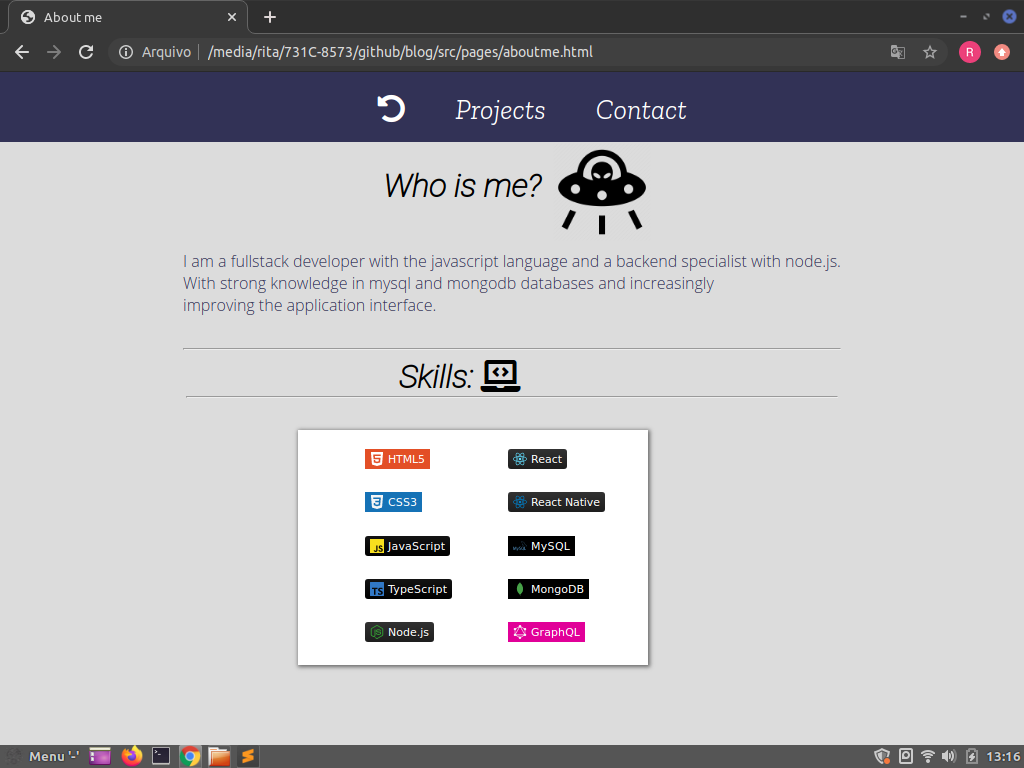
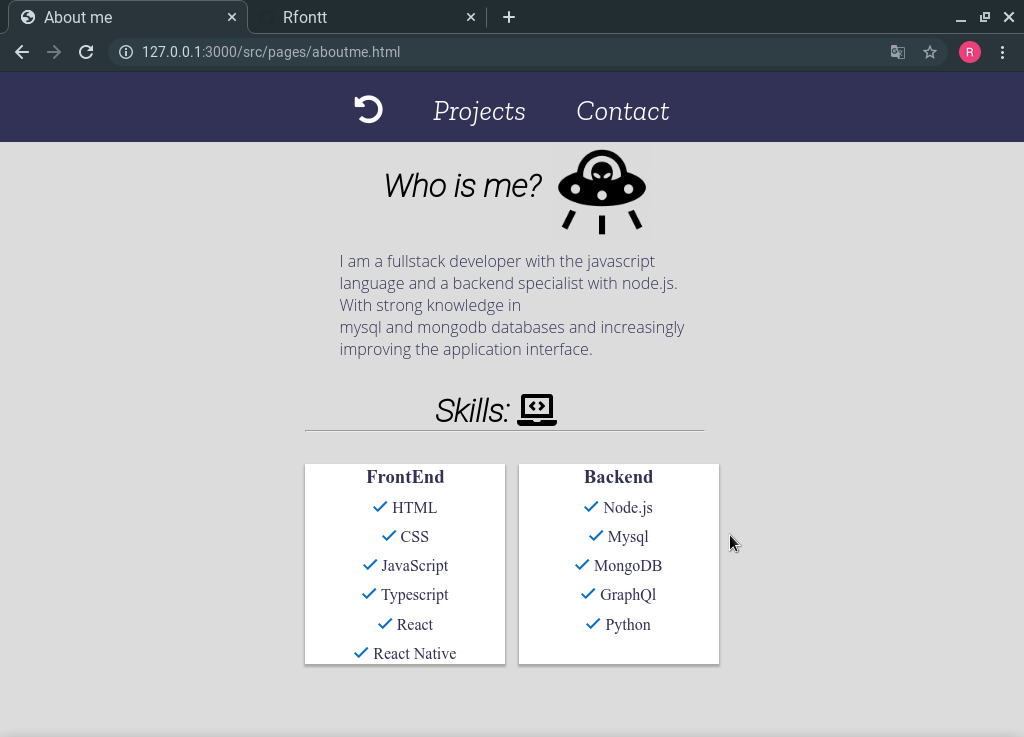
Layout das páginas com os projetos criado

diff --git a/src/pages/aboutme.html b/src/pages/aboutme.html
@@ -40,25 +40,57 @@
         <hr>
 
         <div class="listSkills">
-          <section>
-            <ul>
-              <li> <img src ="https://img.shields.io/badge/-HTML5-E34F26?style=flat-square&logo=html5&logoColor=white&link=https://github.com/LuizCarlosAbbott/" /> </li>
-              <li> <img src ="https://img.shields.io/badge/-CSS3-1572B6?style=flat-square&logo=css3&link=https://github.com/LuizCarlosAbbott/" /> </li>
-              <li> <img src="https://img.shields.io/badge/-JavaScript-000000?style=flat&logo=javascript" /> </li>
-              <li> <img src ="https://img.shields.io/badge/-TypeScript-000000?style=flat&logo=typescript" /> </li>
-              <li><img src="https://img.shields.io/badge/-Node.js-222222?style=flat&logo=node.js&logoColor=339933" /></li>
-            </ul>
-          </section>
+          <main>
+            <h3> Frontend </h3>
 
-          <section>
-            <ul>
-              <li> <img src="https://img.shields.io/badge/-React-222222?style=flat&logo=React&logoColor=61DAFB"/> </li>
-              <li> <img src="https://img.shields.io/badge/-React Native-222222?style=flat&logo=React&logoColor=blue"/> </li>
-              <li> <img src ="https://img.shields.io/badge/-MySQL-black?style=flat-square&logo=mysql&link=https://github.com/LuizCarlosAbbott/" /> </li>
-              <li> <img src ="https://img.shields.io/badge/-MongoDB-black?style=flat-square&logo=mongodb&link=https://github.com/LuizCarlosAbbott/" /> </li>
-              <li> <img src ="https://img.shields.io/badge/-GraphQL-E10098?style=flat-square&logo=graphql&link=https://github.com/LuizCarlosAbbott/" /> </li>
-            </ul>
-          </section>
+              <section>
+                  <img src="../images/Vector.svg" alt="Vector"> <span> HTML </span>
+              </section>
+
+              <section>
+                  <img src="../images/Vector.svg" alt="Vector"> <span> CSS </span>
+              </section>
+
+              <section>
+                  <img src="../images/Vector.svg" alt="Vector"> <span> JavaScript </span>
+              </section>
+
+              <section>
+                  <img src="../images/Vector.svg" alt="Vector"> <span> Typescript </span>
+              </section>
+
+              <section>
+                  <img src="../images/Vector.svg" alt="Vector"> <span> React </span>
+              </section>
+
+              <section>
+                  <img src="../images/Vector.svg" alt="Vector"> <span> React Native </span>
+              </section>
+          </main>
+
+          <main>
+            <h3> Backend </h3>
+
+            <section>
+                <img src="../images/Vector.svg" alt="Vector"> <span> Node.js </span>
+            </section>
+
+            <section>
+                <img src="../images/Vector.svg" alt="Vector"> <span> Mysql </span>
+            </section>
+
+            <section>
+                <img src="../images/Vector.svg" alt="Vector"> <span> MongoDB </span>
+            </section>
+
+            <section>
+                <img src="../images/Vector.svg" alt="Vector"> <span> GraphQl </span>
+            </section>
+
+            <section>
+                <img src="../images/Vector.svg" alt="Vector"> <span> Python </span>
+            </section>
+          </main>
         </div>
       </div>
     </div>

diff --git a/src/pages/Projects/authentication.html b/src/pages/Projects/authentication.html
@@ -2,49 +2,33 @@
 <html lang="en" dir="ltr">
   <head>
     <meta charset="utf-8">
+    <meta name="viewport" content="width=device-width, initial-scale=0.9">
     <title>About me</title>
-    
+
     <link rel="stylesheet" type="text/css" href="../../styles/components.css">
     <link rel="stylesheet" href="../../styles/global.css">
     <link rel="stylesheet" href="https://pro.fontawesome.com/releases/v5.10.0/css/all.css" integrity="sha384-AYmEC3Yw5cVb3ZcuHtOA93w35dYTsvhLPVnYs9eStHfGJvOvKxVfELGroGkvsg+p" crossorigin="anonymous"/>
   </head>
   <body>
-    <div class="container">
-      <a href="../projects.html">
-        <i class="fas fa-arrow-left"></i> 
-      </a>
+      <div class="container">
+        <div class="nav-bar">
+          <div class="ComeBack">
+            <a href="../projects.html"><i class="fas fa-arrow-left"></i></a>
+          </div>
 
-      <div class="description">
-        <main>
-          <h1>Authentication</h1>
+          <nav>
+            <ul>
+              <a href="https://github.com/Rfontt/Authentication"><li><i class="fab fa-github-square"></i></li></a>
+            </ul>
+          </nav>
+        </div>
 
-          <span>It is a project about authentication, which has login and account creation. <br />
-           It consumes an api that receives the data and stores and compares it in the database.</span>
-
-           <a href="https://github.com/Rfontt/Authentication"> See code => <i class="fab fa-github-square"></i></a>
-        </main>
+        <div class="main">
+          <main>
+            <h1>Authentication</h1>
+          </main>
+        </div>
       </div>
-    </div>
 
-    <div class="arrowdown">
-      <a href="#imageProject" id="arrowdown">
-        <i class="fas fa-chevron-down"></i>
-      </a>
-    </div>
-
-    <div class="imageProject" id="imageProject">
-      <button id="return">
-        <i class="fad fa-angle-double-left"></i>
-      </button>
-
-      <img src="" alt="Authentication" id="image">
-
-      <button id="next">
-        <i class="fad fa-angle-double-right"></i>
-      </button>
-    </div>
-
-    <script src="../../scripts/authentication.js"></script>
-    <script src="../../scripts/Arrow.js"></script>
   </body>
 </html>

diff --git a/src/styles/components.css b/src/styles/components.css
@@ -1,93 +1,51 @@
 body {
-	background: #1C1C30;
+	background: #DCDCDC;
 }
 
 .container {
   max-height: 100vh;
-  display: grid;
 }
 
-a i{
-	font-size: 30px;
+.nav-bar {
+	background: #323256;
+	height: 120px;
+}
+
+.nav-bar .ComeBack i {
+	margin-top: 0.5rem;
+	font-size: 25px;
+	margin-left: 0.5rem;
 	color: white;
-	margin: 0.5rem;
 }
 
-.description main{
-	display: flex;
-	align-items: center;
-	justify-content: center;
-	flex-direction: column;
-	background: white;
-	margin-top: 4rem;
-	width: 600px;
-	margin-left: 200px;
-	border-radius: 20px;
-	height: 300px;
+.nav-bar nav {
+	display: grid;
+	place-items: center;
 }
 
-.description h1 {
-	color: #1C1C30;
-}
-
-.description span {
-	color: black;
-}
-
-.description a {
-	margin-top: 0.6rem;
-	color: blue;
-}
-
-.description i {
-	font-size: 50px;
-	color: black;
-}
-
-.arrowdown {
-	display: flex;
-	align-items: center;
-	justify-content: center;
-	margin-top: 13rem;
-}
-
-.arrowdown i {
-	font-size: 30px;
-	color: #DCDCDC;
-}
-
-.imageProject {
-	display: flex;
-	align-items: center;
-	justify-content: center;
+.nav-bar nav ul a li i {
 	margin-top: 0.2rem;
+	font-size: 50px;
+	color: white;
 }
 
-.imageProject button {
-	margin: 0.5rem;
-	background: #1C1C30;
-	border: 0px;
-	outline: none;
-	transition: transform 400ms;
-
+.main {
+	display: flex;
+	align-items: center;
+	justify-content: center;
 }
 
-.imageProject button:hover {
-	transform: scale(1.2);
-}
-
-.imageProject button i {
-	font-size: 20px;
-	color: #1E90FF;
-}
-
-.imageProject img{
-	width: 400px;
-	height: 300px;
+.main main {
+	background: white;
+	width: 600px;
+	height: 600px;
+	margin-top: -20px;
+	margin-bottom: 1rem;
 	border-radius: 8px;
-	transition: transform 400ms;
 }
 
-.imageProject img:hover {
-	transform: scale(0.9);
+.main main h1 {
+	text-align: center;
+	color: #323256;
+	margin-top: 0.5rem;
 }

diff --git a/src/styles/aboutme.css b/src/styles/aboutme.css
@@ -51,23 +51,35 @@ h1{
 }
 
 .skills .listSkills {
-  display: flex;
-  flex-direction: row;
-  align-items: center;
-  justify-content: center;
+  display: grid;
+  grid-template-columns: repeat(2, 1fr);
+  grid-gap: 2vh;
+  place-items: center;
+}
+
+.skills .listSkills main {
+  margin-top: 2rem;
+  width: 200px;
   background: white;
-  width: 350px;
-  margin-top: 1.6rem;
-  margin-left: 1.5rem;
-  box-shadow: 1px 1px 4px 1px rgba(105,105,105);
+  height: 200px;
+  display: flex;
+  flex-direction: column;
+  align-items: center;
+  box-shadow: 0px 2px 2px 1px #A9A9A9;
 
 }
 
-.skills .listSkills section ul li {
-  list-style: none;
-  margin-top: 1.2rem;
-  margin-bottom: 1.2rem;
-  margin-left: 1rem;
+.skills .listSkills main h3 {
+  color: #323256;
+  margin-top: 0.1rem;
+}
+
+.skills .listSkills main section {
+  margin-top: 0.7rem;
+}
+
+.skills .listSkills main section span {
+  color: #323256;
 }
 
 @media screen and (max-width: 700px) {
@@ -82,7 +94,7 @@ h1{
   }
 
   .description h1{
-    margin-right: 2.5rem;
+    margin-right: 1.5rem;
   }
 
   .title-description span {
@@ -95,15 +107,9 @@ h1{
     margin-left: 2rem;
   }
 
-  .skills .listSkills section ul li {
-    margin: 1.5rem 0.9rem 1rem;
-
-  }
-
   .skills .listSkills {
-    width: 350px;
-    height: 250px;
-    margin-top: 2rem;
-    margin-left: 2rem;
+    display: flex;
+    flex-direction: column;
+    margin-bottom: 1rem;
   }
 }

diff --git a/src/pages/projects.html b/src/pages/projects.html
@@ -47,7 +47,7 @@
 
           <main>
             <img src="../images/ResponseAndQuestion/projectRequestAndResponse.gif" alt="Questions and response">
-            <span>Questions and response app</span>
+            <span>Question and response app</span>
             <a href="#">See project</a>
           </main>
 

diff --git a/src/styles/navbar.css b/src/styles/navbar.css
@@ -19,7 +19,6 @@
 }
 
 .nav-bar nav ul li {
-  list-style: none;
   margin-top: 1.3rem;
 }
 
@@ -29,7 +28,7 @@
 }
 
 .nav-bar nav ul li a{
-  font-size: clamp(1.75em, 0.5em + 1vw, 2.1em);
+  font-size: min(1.8em, 6vw);
   font-family: 'Zilla Slab', serif;
   color: white;
   cursor: pointer;

diff --git a/src/styles/global.css b/src/styles/global.css
@@ -8,3 +8,7 @@ a {
   color: inherit;
   text-decoration: none;
 }
+
+li {
+  list-style: none;
+}
